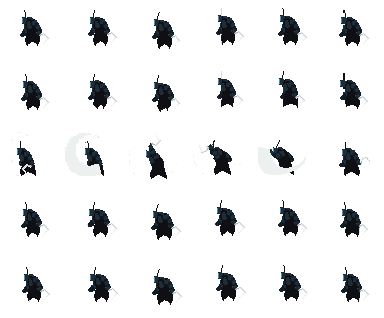
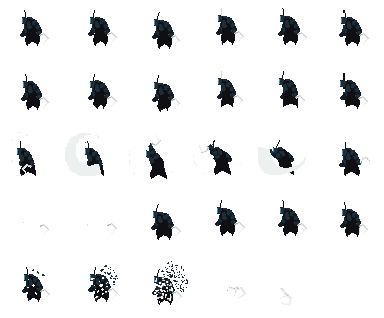
add death and hit animation black_enemies

diff --git a/oop_12/src/entities/Snake.java b/oop_12/src/entities/Snake.java
@@ -11,7 +11,7 @@ public class Snake extends Enemy {
 	public Snake(float x, float y) {
 		super(x, y, SNAKE_WIDTH, SNAKE_HEIGHT, SNAKE);
 		initHitbox(22, 28);
-		initAttackBox(82, 19, 30);
+		initAttackBox(82, 19, 25);
 	}
 
 	public void update(int[][] lvlData, Playing playing) {
@@ -53,7 +53,7 @@ public class Snake extends Enemy {
 					checkPlayerHit(attackBox, playing.getPlayer());
 				break;
 			case HIT:
-				if (aniIndex <= GetSpriteAmount(enemyType, state) - 2)
+				if (aniIndex <= GetSpriteAmount(enemyType, state) - 3)
 					pushBack(pushBackDir, lvlData, 2f);
 				updatePushBackDrawOffset();
 				break;

diff --git a/oop_12/src/utilz/Constants.java b/oop_12/src/utilz/Constants.java
@@ -192,9 +192,9 @@ public class Constants {
 					return 6;
 				return 4;
 			case DEAD:
-				if (enemy_type == SNAKE)
-					return 6;
-				else if(enemy_type == WOLF)
+				// if (enemy_type == SNAKE)
+				// 	return 6;
+				 if(enemy_type == WOLF)
 					return 7;
 				return 5;
 			}
